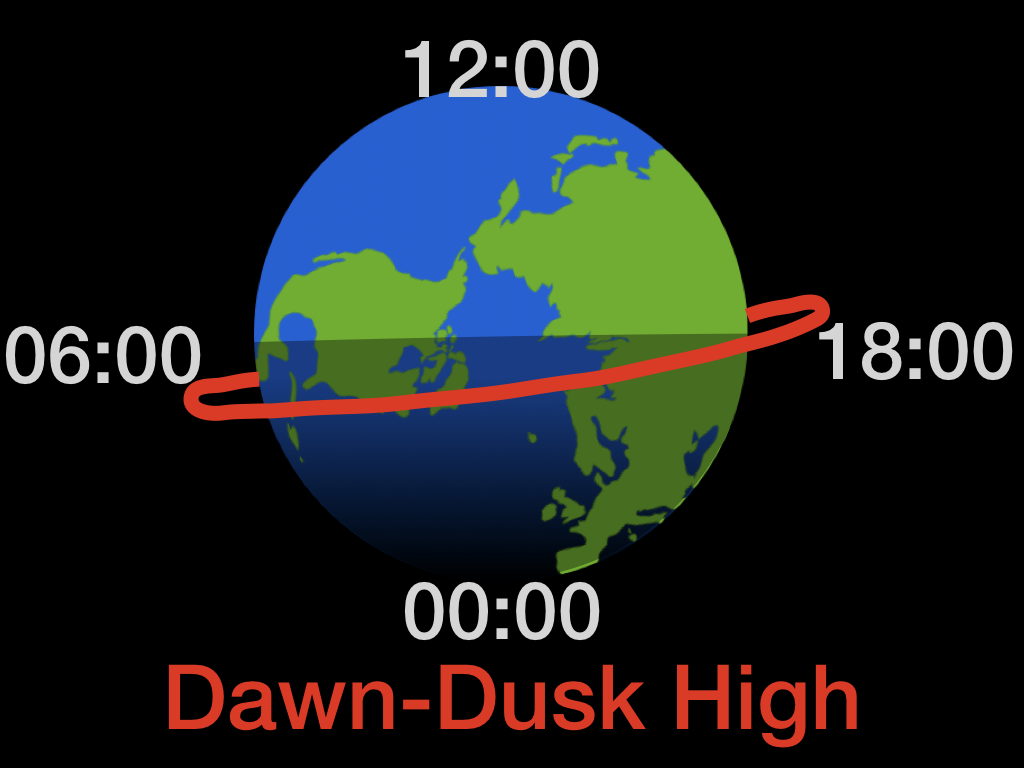
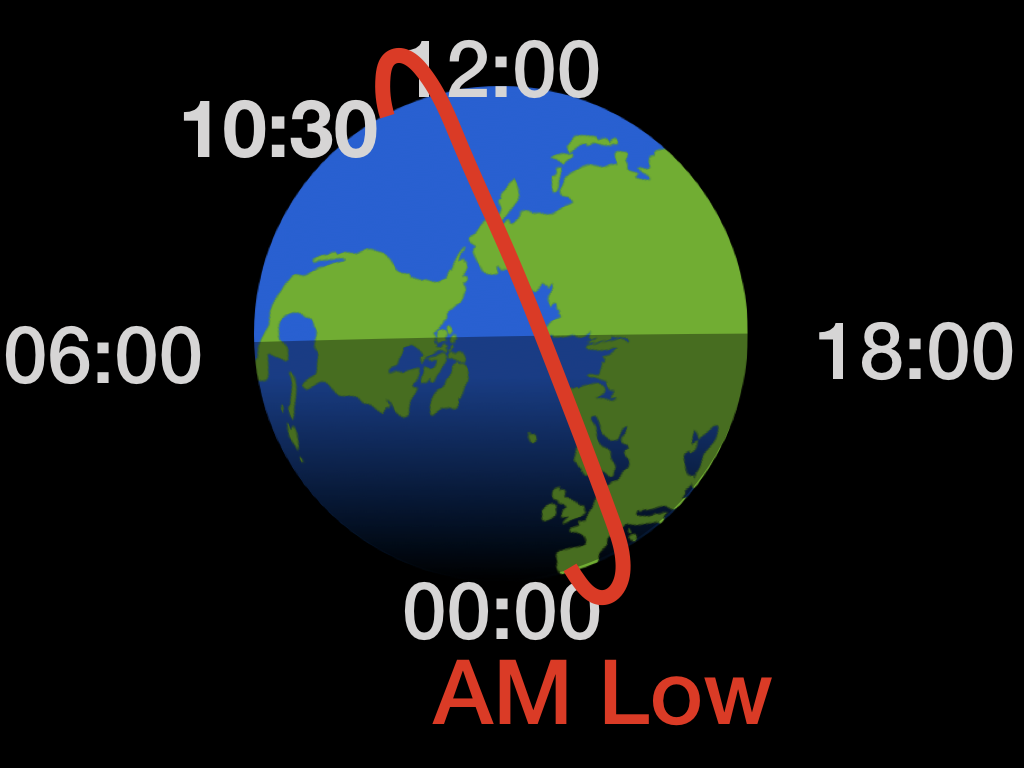
changed orbit ordering and calibration

Changed region(s): [[0.1562, 0.0625, 0.8125, 0.8125], [0.1562, 0.8438, 0.8438, 1.0], [0.5312, 0.7188, 0.5625, 0.75]]

diff --git a/DesignAssistant/src/designAssistantCore/TuioBlock.java b/DesignAssistant/src/designAssistantCore/TuioBlock.java
@@ -24,19 +24,23 @@ public class TuioBlock extends TuioObject{
 	public static int block_size = 105;
 	public static int table_size = 760;
 	//public static final double ax_x = -1.706548908;
-	public static final double ax_x = -1.82076548908;
+	public static final double ax_x = -1.52076548908;
 	//public static final double ax_y = - .07869167392;
 	//public static final double ax_y = - .08169167392;
 	public static final double ax_y = - .01709167392;
 	//public static final double cx = 2091.810068;
-	public static final double cx = 1550.810068;
+	public static final double cx = 1350.810068;
 	
 
 	public static final double ay_x =  0.0670692435;
 	//public static final double ay_y = 1.662719449;
-	public static final double ay_y = 1.8569449;
+	public static final double ay_y = 1.60569449;
 	//public static final double cy =  - 161.0721432;
-	public static final double cy =  -250.0721432;
+	public static final double cy =  -150.0721432;
+	
+	public static final double xOffset = 50;;
+	public static final double yOffset = 250;
+	
 	public double x_pos;
 	public double y_pos;
 	
@@ -54,6 +58,7 @@ public class TuioBlock extends TuioObject{
 		outline = transform.createTransformedShape(outline);
 		x_pos = outline.getBounds2D().getX();
 		y_pos = outline.getBounds2D().getY();
+//		System.out.println("X Position: " + x_pos + " Y Position: "+y_pos);
 	}
 	
 	public String toTuioLetter() {
@@ -107,7 +112,7 @@ public class TuioBlock extends TuioObject{
 		
 		float Xpos = xpos*width;
 		float Ypos = ypos*height;
-		//reSystem.out.println("Cur_pos:"+xpos+","+ypos);
+		System.out.println("Cur_pos:"+xpos+","+ypos);
 		float scale = height/(float)table_size;
 
 		AffineTransform trans = new AffineTransform();
@@ -117,6 +122,8 @@ public class TuioBlock extends TuioObject{
 		Shape s = trans.createTransformedShape(outline);
 		double x_trans = ax_x*s.getBounds2D().getX() + ax_y*s.getBounds2D().getY() + cx;
 		double y_trans = ay_x*s.getBounds2D().getX() + ay_y*s.getBounds2D().getY() + cy;
+		//double x_trans = s.getBounds2D().getX()+xOffset;
+		//double y_trans = s.getBounds2D().getY()+yOffset;
 		trans = new AffineTransform();
 		trans.translate(x_trans-s.getBounds2D().getX()-s.getBounds2D().getWidth()/2, 
 				y_trans-s.getBounds2D().getY()-s.getBounds2D().getHeight()/2);

diff --git a/DesignAssistant/src/designAssistantCore/DesignAssistant.java b/DesignAssistant/src/designAssistantCore/DesignAssistant.java
@@ -431,6 +431,13 @@ public class DesignAssistant {
 								double science = nextPoint.x_dim/4000;
 								double cost = nextPoint.y_dim*12;
 								logger.info(EXPLORE_EVENT + logDelimiter + configString + logDelimiter + science + logDelimiter + cost);
+								StringBuilder msg = new StringBuilder("{\"op\":\"publish\",\"topic\":\"/configs\","
+										+ "\"msg\":{\"data\":\"{\\\"config\\\":\\\"");
+								msg.append(configString);
+								msg.append("\\\",\\\"science\\\":"+science+",\\\"cost\\\":"+cost+"}\"}}");
+								
+								System.out.println("Sending table config:"+msg.toString());
+								rosPublisher.sendMessage(msg.toString());
 								}
 							} catch(NullPointerException ce) {
 								return;

diff --git a/DesignAssistant/src/designAssistantCore/TableComponent.java b/DesignAssistant/src/designAssistantCore/TableComponent.java
@@ -79,7 +79,7 @@ public class TableComponent extends JComponent{
 		double symbolScale = orbitHeight/914.0; //914 is the height of the tallest orbit symbol (for now)
 		orbitSymbols = new ArrayList<Image>();
 		ArrayList<Image> reorderedOrbitSymbols = new ArrayList<Image>();
-		int[] orbitOrder = {5,4,3,2,1};//{2,4,3,5,1};
+		int[] orbitOrder = {1,2,3,4,5};//{2,4,3,5,1};
 		try{
 			File  directory = new File("orbitSymbols");
 			for (File file : directory.listFiles())
